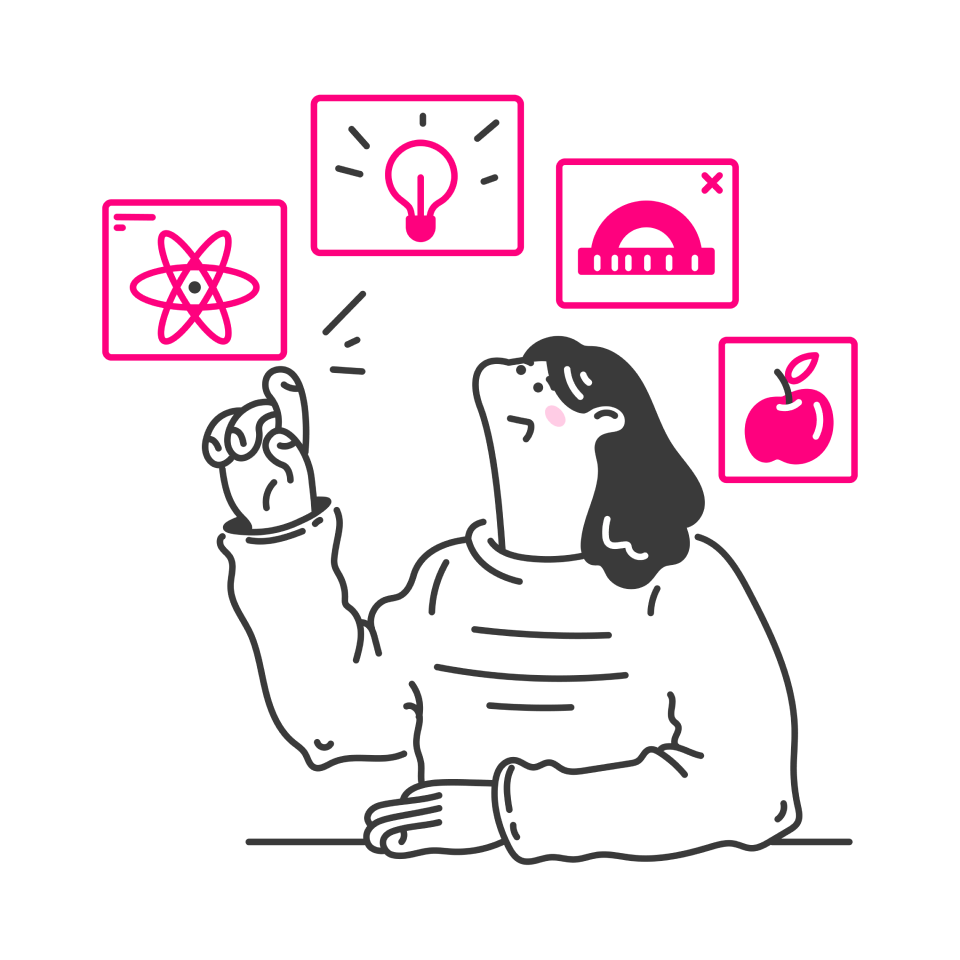
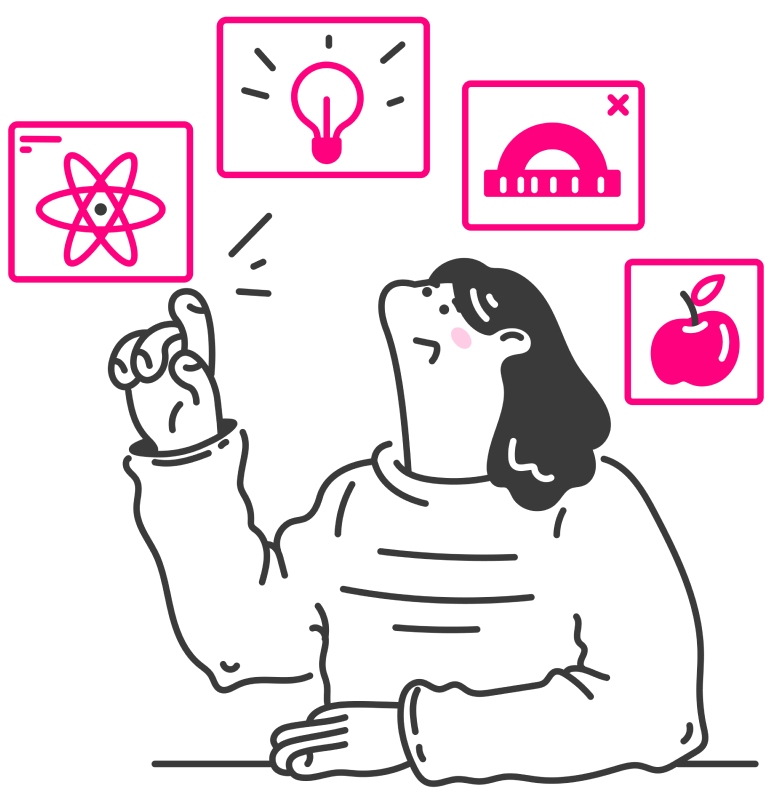
Корректировки главной страницы

Changed region(s): [[0.0, 0.0, 0.9821, 0.9975], [0.2455, 0.6348, 0.2762, 0.7254], [0.1841, 0.665, 0.2148, 0.7557]]

diff --git a/ora-frontend/screens/Home/index.tsx b/ora-frontend/screens/Home/index.tsx
@@ -30,12 +30,14 @@ const HomeScreen: FC<HomeScreenProps> = ({ categoriesTree }) => (
       }
     />
     <InfoBlock
+      className="mt-6"
       title="Огромный выбор услуг и мастеров"
       imageSrc={HOME_CONTENT_IMAGE_2}
       content="Вас ждет широчайший выбор услуг и опытных мастеров, готовых подарить вам моменты истинного блаженства и красоты. От парикмахерских услуг до массажа и косметологии — у нас вы найдете все, что нужно для идеального образа и полного расслабления."
       order="reverse"
     />
     <InfoBlock
+      className="mt-6"
       title="Уникальная система лояльности"
       imageSrc={HOME_CONTENT_IMAGE_3}
       content={<>А это еще не все! Радуйтесь эксклюзивным бонусам, скидкам и программе лояльности, которые подарят вам дополнительные приятные моменты и превратят ваш опыт в незабываемое путешествие по миру красоты!<br /><br />Присоединяйтесь к нам и познайте простоту и радость онлайн-записи, делая вашу жизнь ярче и краше с каждым кликом!</>}

diff --git a/ora-frontend/components/BookingBanner/BookingBannerForm/index.tsx b/ora-frontend/components/BookingBanner/BookingBannerForm/index.tsx
@@ -1,6 +1,7 @@
 import { FC, useState, useMemo, useCallback } from "react";
 import { useRouter } from "next/navigation";
 import { AutoComplete, AutoCompleteCompleteEvent } from "primereact/autocomplete";
+import cn from "classnames";
 
 import { searchProceduresUrl } from "@/api/categories";
 import axiosInstance from "@/api";
@@ -12,8 +13,12 @@ import styles from "./style.module.scss";
 //   cities: SelectItemOptionsType[];
 // }
 
+interface BookingBannerFormProps {
+  className?: string;
+}
+
 // TODO: Когда будет много салонов в городах, разблокировать выбор города для процедуры
-const BookingBannerForm: FC = () => {
+const BookingBannerForm: FC<BookingBannerFormProps> = ({ className }) => {
   const router = useRouter();
 
   const [selectedProcedure, setSelectedProcedure] = useState<any>(null);
@@ -47,7 +52,7 @@ const BookingBannerForm: FC = () => {
 
   return (
     <>
-      <div className="card p-fluid">
+      <div className={cn(className, "card", "p-fluid")}>
         <AutoComplete
           placeholder="Поиск процедур"
           field="procedureName"

diff --git a/ora-frontend/components/Header/index.tsx b/ora-frontend/components/Header/index.tsx
@@ -1,5 +1,5 @@
 import { FC } from "react";
-import { BiMenu, BiSolidUser } from "react-icons/bi";
+import { BiSolidUser } from "react-icons/bi";
 import Link from "next/link";
 import classNames from "classnames";
 import { useSelector } from "react-redux";
@@ -32,14 +32,11 @@ const Header: FC<HeaderModel> = ({ withoutAuthorization }) => {
               >
                 Размещайтесь на ORA
               </Link>
-              <Link href="/login" className={styles.linkToLogin}>
-                <BiMenu color="white" />
-                <BiSolidUser color="white" />
-              </Link>
+              <Link href="/profile" className={styles.linkToLogin}>Войти</Link>
             </>
           ) : (
             <Link href="/profile" className={styles.linkToLogin}>
-              <BiSolidUser color="white" />
+              <div><BiSolidUser color="white" /></div>&nbsp;<p>{profileInfo.name}</p>
             </Link>
           )}
         </div>

diff --git a/ora-frontend/components/Header/style.module.scss b/ora-frontend/components/Header/style.module.scss
@@ -11,21 +11,41 @@
 
 .linkToLogin {
     background-color: $gray-500;
-    width: 48px;
+    color: $white-500;
     height: 32px;
+    max-width: 196px;
+    padding: 4px 16px;
     border-radius: 16px;
     display: flex;
-    justify-content: center;
     align-items: center;
+
+    p {
+        white-space: nowrap;
+        overflow: hidden;
+        display: block;
+        text-overflow: ellipsis;
+    }
+
+    &:hover {
+        background-color: $gray-400;
+    }
 }
 
 .saloonRegistrationLink {
     font-weight: 700;
     color: $gray-500;
+
+    &:hover {
+        color: $gray-400;
+    }
 }
 
 @media (max-width: 896px) {
     .header {
         padding: 0 16px;
+    }
+
+    .saloonRegistrationLink {
+        display: none;
     }
 }

diff --git a/ora-frontend/pages/index.tsx b/ora-frontend/pages/index.tsx
@@ -1,4 +1,5 @@
 import { FC } from "react";
+import Head from "next/head";
 import { MenuItem } from "primereact/menuitem";
 
 import axiosInstance from "@/api";
@@ -38,7 +39,12 @@ const Home: FC<HomeProps> = ({ proceduresTree }) => {
     ],
   } as MenuItem));
 
-  return <HomeScreen categoriesTree={categoriesTree} />;
+  return <>
+    <Head>
+      <title>ORA - Находи и бронируй запись у профессионалов бьюти индустрии</title>
+    </Head>
+    <HomeScreen categoriesTree={categoriesTree} />
+  </>;
 };
 
 export const getServerSideProps = async () => {

diff --git a/ora-frontend/components/BookingBanner/index.tsx b/ora-frontend/components/BookingBanner/index.tsx
@@ -14,7 +14,7 @@ const BookingBanner = () => {
     <div className={styles.banner}>
       <div className={styles.form}>
         <h2>Находи и бронируй запись у профессионалов бьюти индустрии</h2>
-        <BookingBannerForm />
+        <BookingBannerForm className="mt-3" />
       </div>
     </div>
   );

diff --git a/ora-frontend/components/CategoriesMenu/style.module.scss b/ora-frontend/components/CategoriesMenu/style.module.scss
@@ -1,4 +1,6 @@
 .navigation {
+    padding: 8px 72px;
+
     :global(a[role="menuitem"]) svg {
         display: none;
     }
@@ -11,6 +13,7 @@
 @media (max-width: 896px) {
     .navigation {
         border-width: 0 !important;
+        padding: unset;
 
         :global(ul.p-megamenu-submenu) {
             width: 100%;

diff --git a/ora-frontend/components/BookingBanner/style.module.scss b/ora-frontend/components/BookingBanner/style.module.scss
@@ -12,11 +12,8 @@
     .form {
         display: flex;
         flex-direction: column;
+        gap: 8px;
         width: 420px;
-
-        & > * {
-            margin-top: 8px;
-        }
     }
 }
 

diff --git a/ora-frontend/screens/Home/InfoBlock/index.tsx b/ora-frontend/screens/Home/InfoBlock/index.tsx
@@ -25,7 +25,7 @@ const InfoBlock: FC<InfoBlockProps> = ({
       loading="lazy"
       src={imageSrc}
       alt={title}
-      width="360px"
+      width="272px"
       className="p-2"
     />
   );

diff --git a/ora-frontend/screens/Home/InfoBlock/style.module.scss b/ora-frontend/screens/Home/InfoBlock/style.module.scss
@@ -13,6 +13,7 @@
   display: flex;
   align-items: center;
   justify-content: space-between;
+  gap: 72px;
 
   p {
     @include text-18-24;
